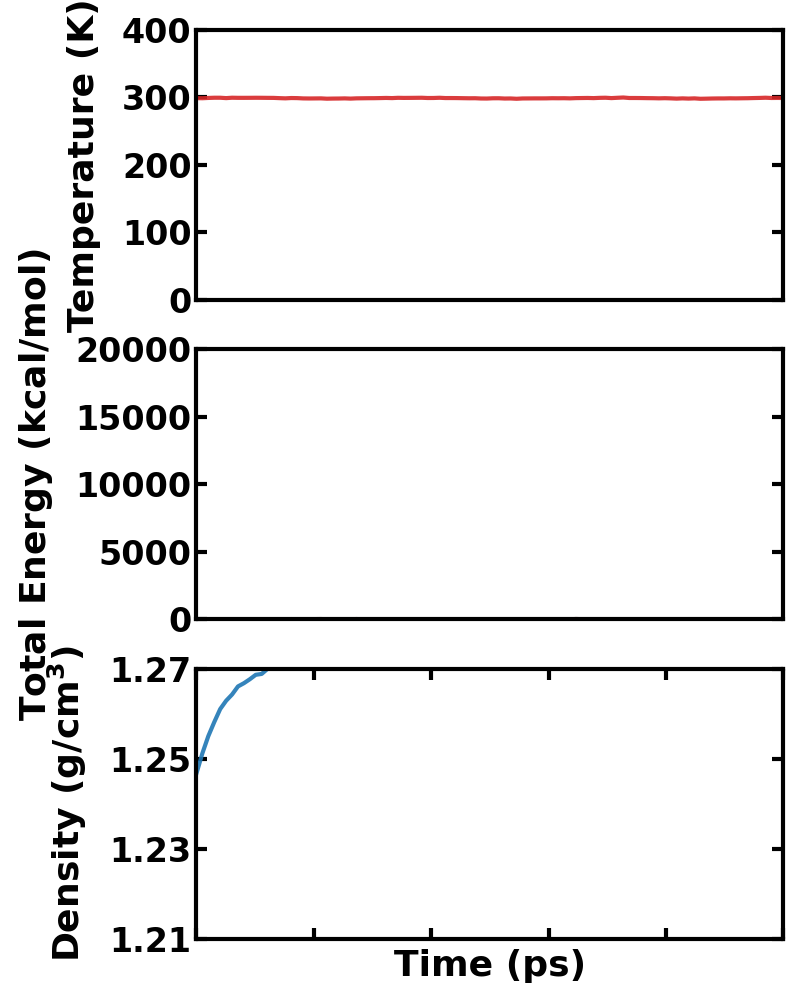
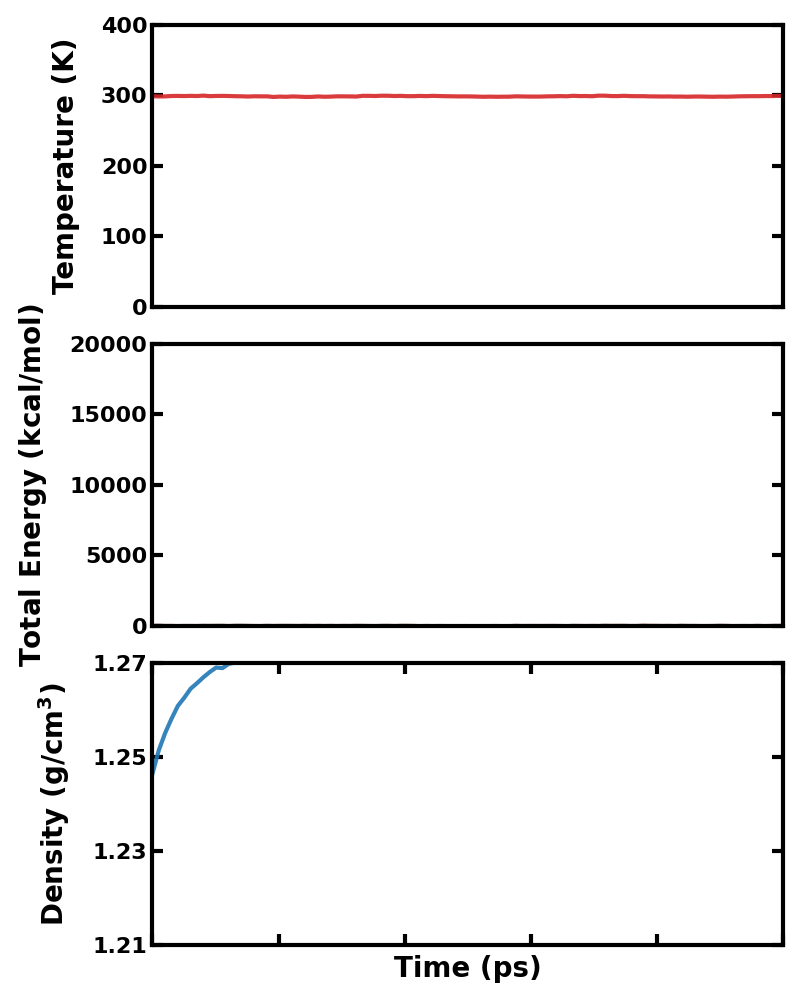
style(plot): Adjust font sizes for thermodynamic plot
Updates the font sizes in the `plot_properties` class to use a main font size of 20 and an axis tick font size of 16, as per the user's request.

The plot has been regenerated to reflect these visual changes. The logic for displaying x-axis ticks only on the bottom subplot has been verified and remains correct.

Changed region(s): [[0.0, 0.0, 1.0, 0.992]]

diff --git a/plot_thermodynamics.py b/plot_thermodynamics.py
@@ -45,7 +45,7 @@ class plot_properties():
     """
     配置 SCI 论文标准的绘图样式，适配子图布局。
     """
-    def __init__(self, font_type='Times New Roman', font_size=26, axis_ticks_font_size=24, label_x="Time (ps)", label_y="",
+    def __init__(self, font_type='Times New Roman', font_size=20, axis_ticks_font_size=16, label_x="Time (ps)", label_y="",
                  legend_size=24):
 
         self.font_size = font_size
